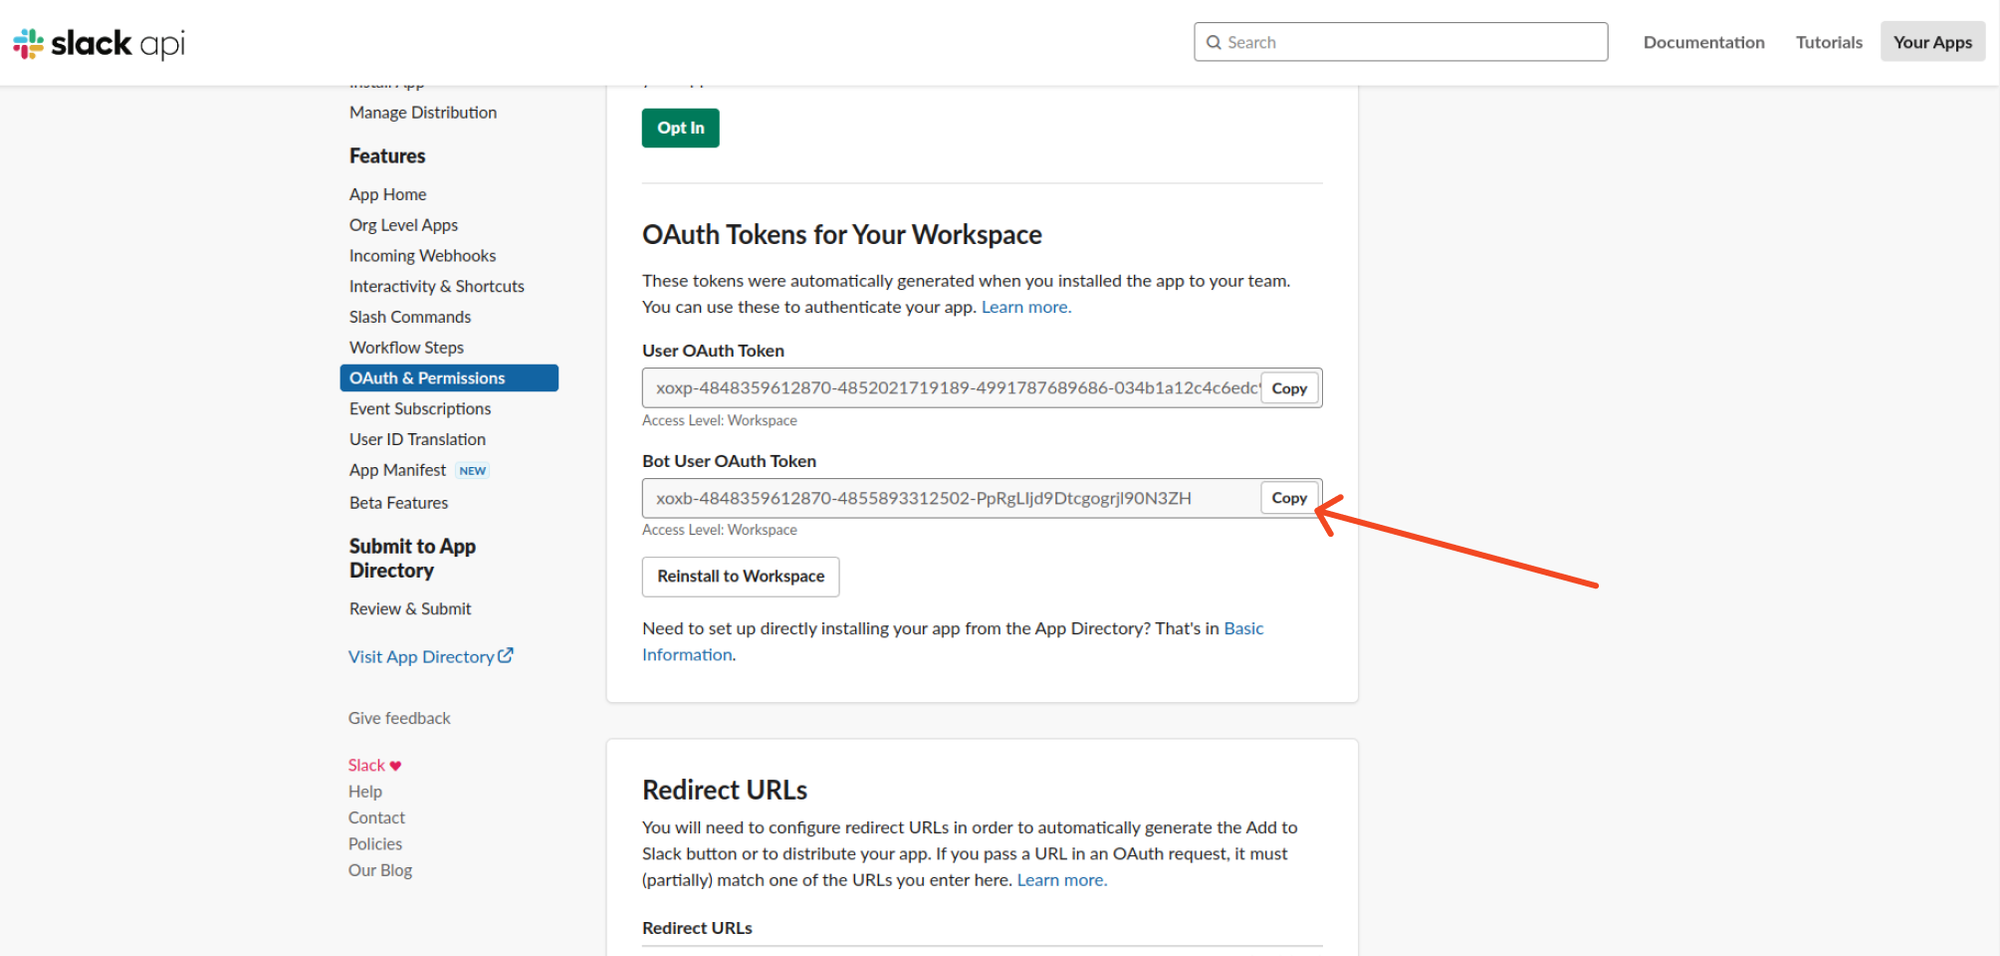
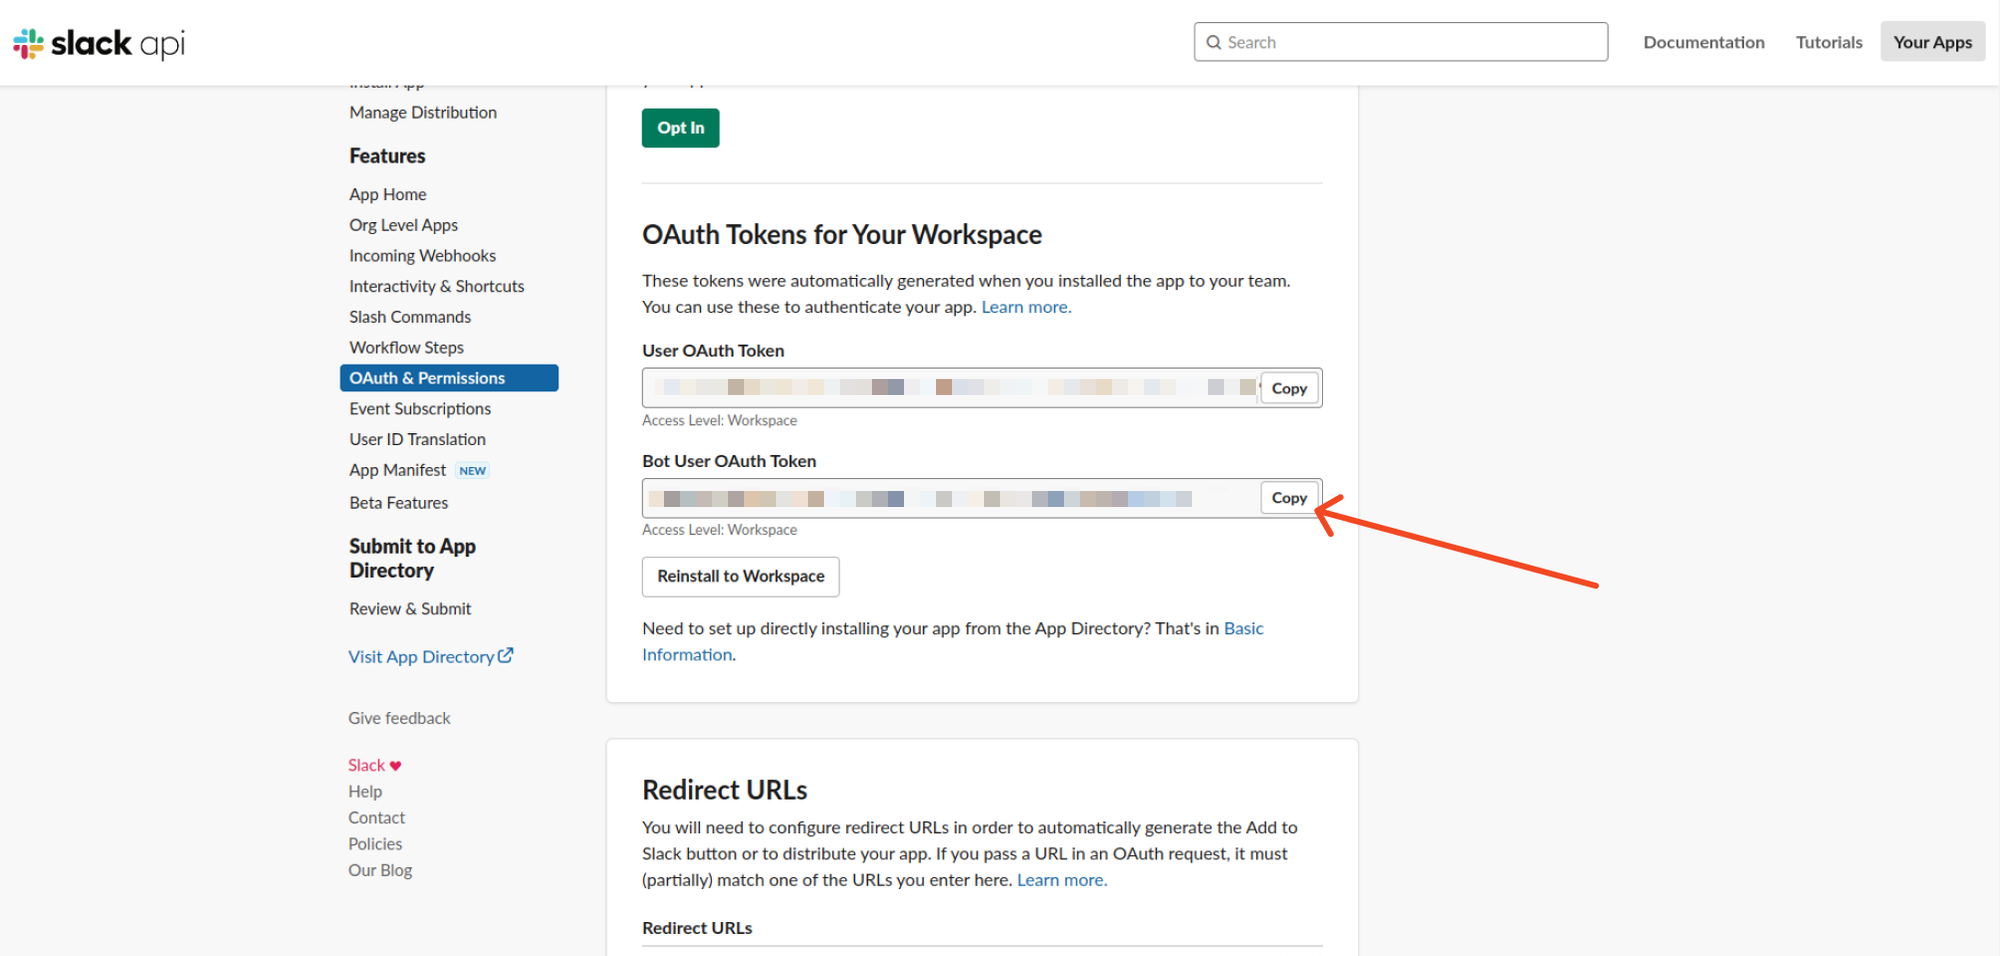
Added new elements "Wait" "session logger" and "Component". Updated Instagram integration guide, updated AI task

Changed region(s): [[0.341, 0.3944, 0.651, 0.4247], [0.31, 0.5157, 0.62, 0.546]]

diff --git a/astro.config.ts b/astro.config.ts
@@ -243,13 +243,21 @@ export default defineConfig({
                       link: "chatbot/studio/elements/advanced/api-calling",
                     },
                     {
+                      label: "Wait",
+                      link: "chatbot/studio/elements/advanced/wait"
+                    },
+                    {
                       label: "Sets",
                       link: "chatbot/studio/elements/advanced/sets",
                     },
                     {
-                      label: "JavaScript Code Execution",
+                      label: "Code Execution",
                       link: "chatbot/studio/elements/advanced/code-execution",
                     },
+                    {
+                      label: "Component",
+                      link: "Chatbot/studio/elements/advanced/component"
+                    }
                     {
                       label: "Actions",
                       link: "chatbot/studio/elements/advanced/actions",
@@ -298,6 +306,10 @@ export default defineConfig({
                       label: "Training View Source",
                       link: "chatbot/other/debugging/training-view-source",
                     },
+                    {
+                      label: "View Chat Session Logs",
+                      link:  "chatbot/other/debugging/session-logger"
+                    }
                   ],
                 },
               ],
